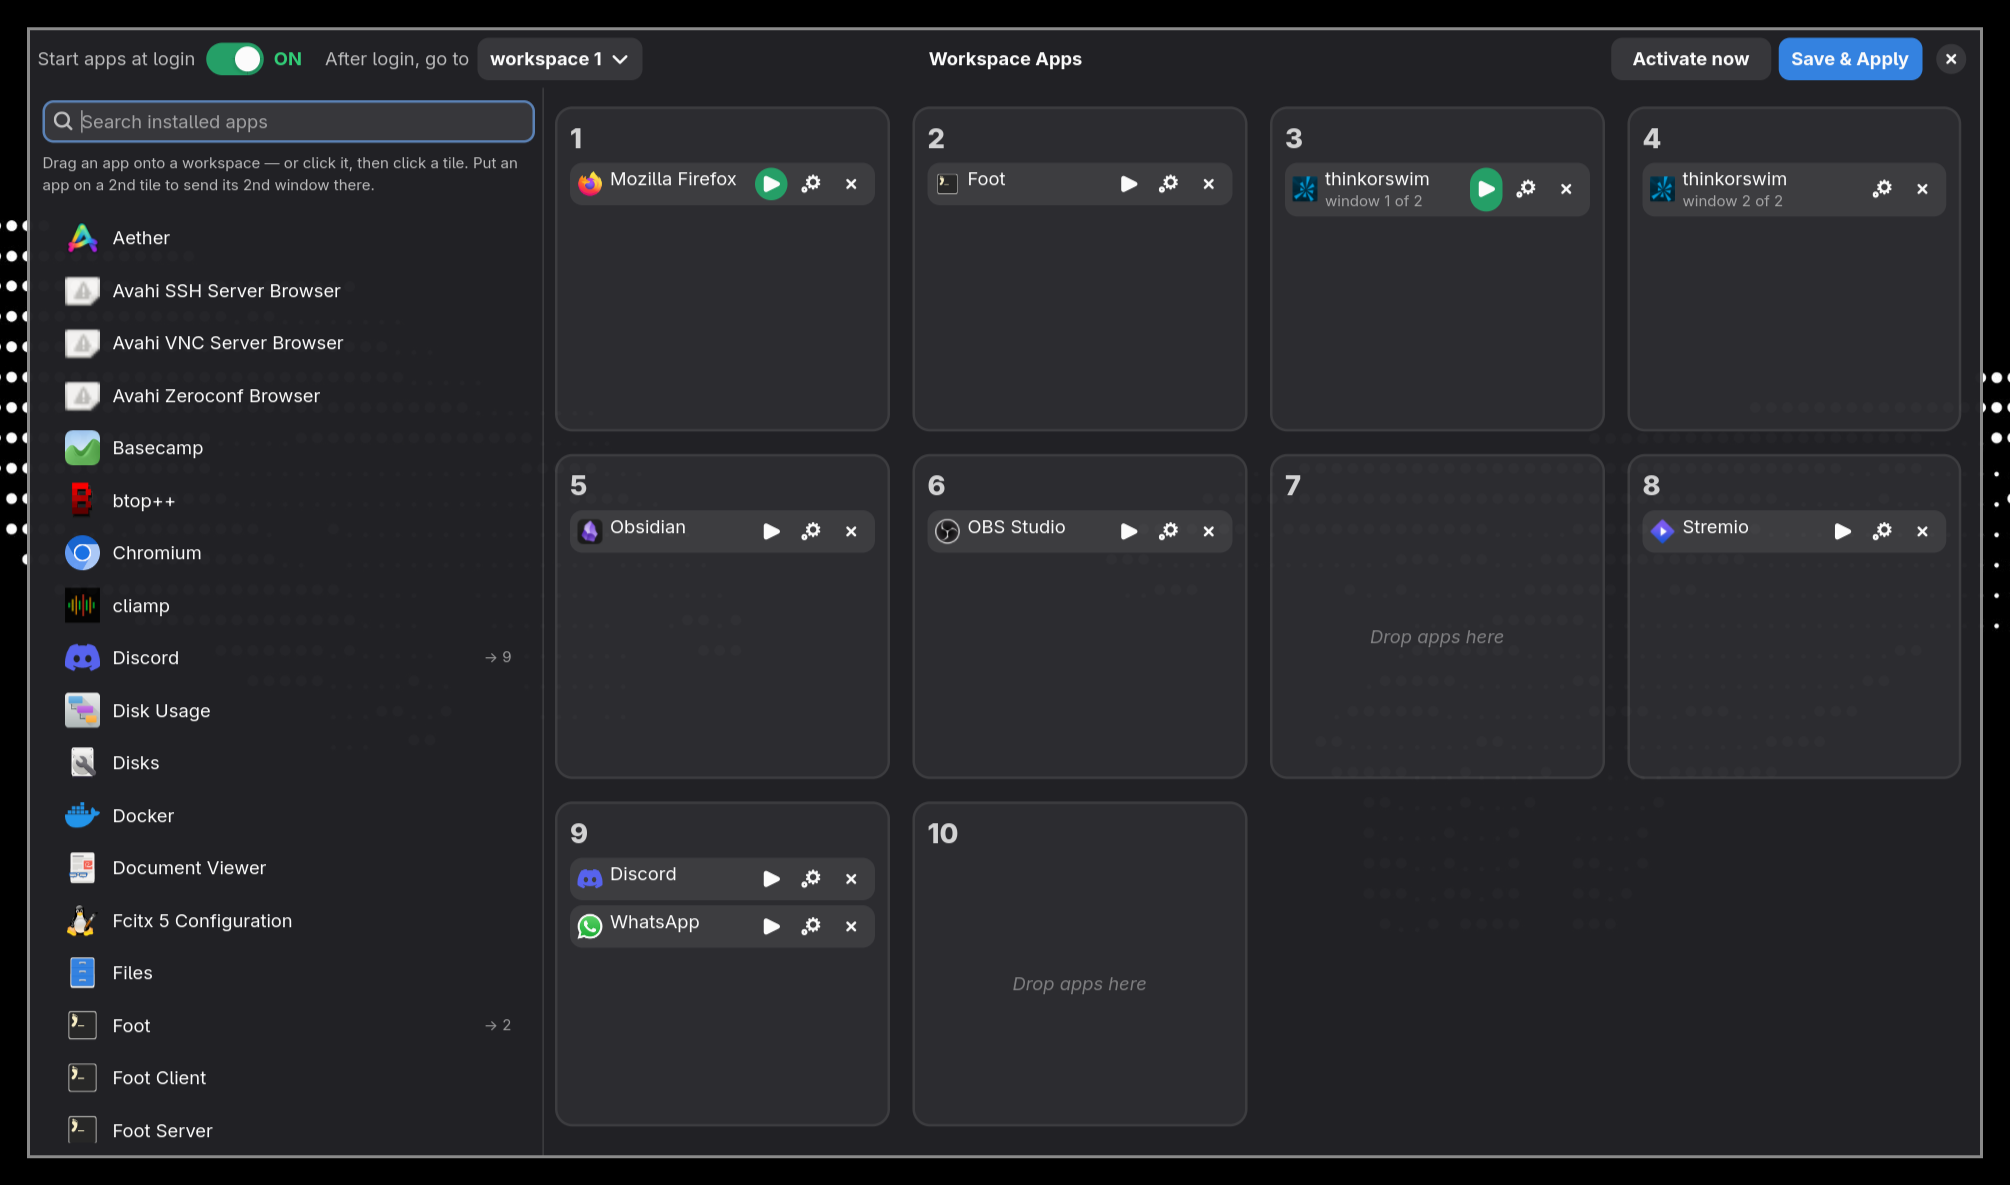
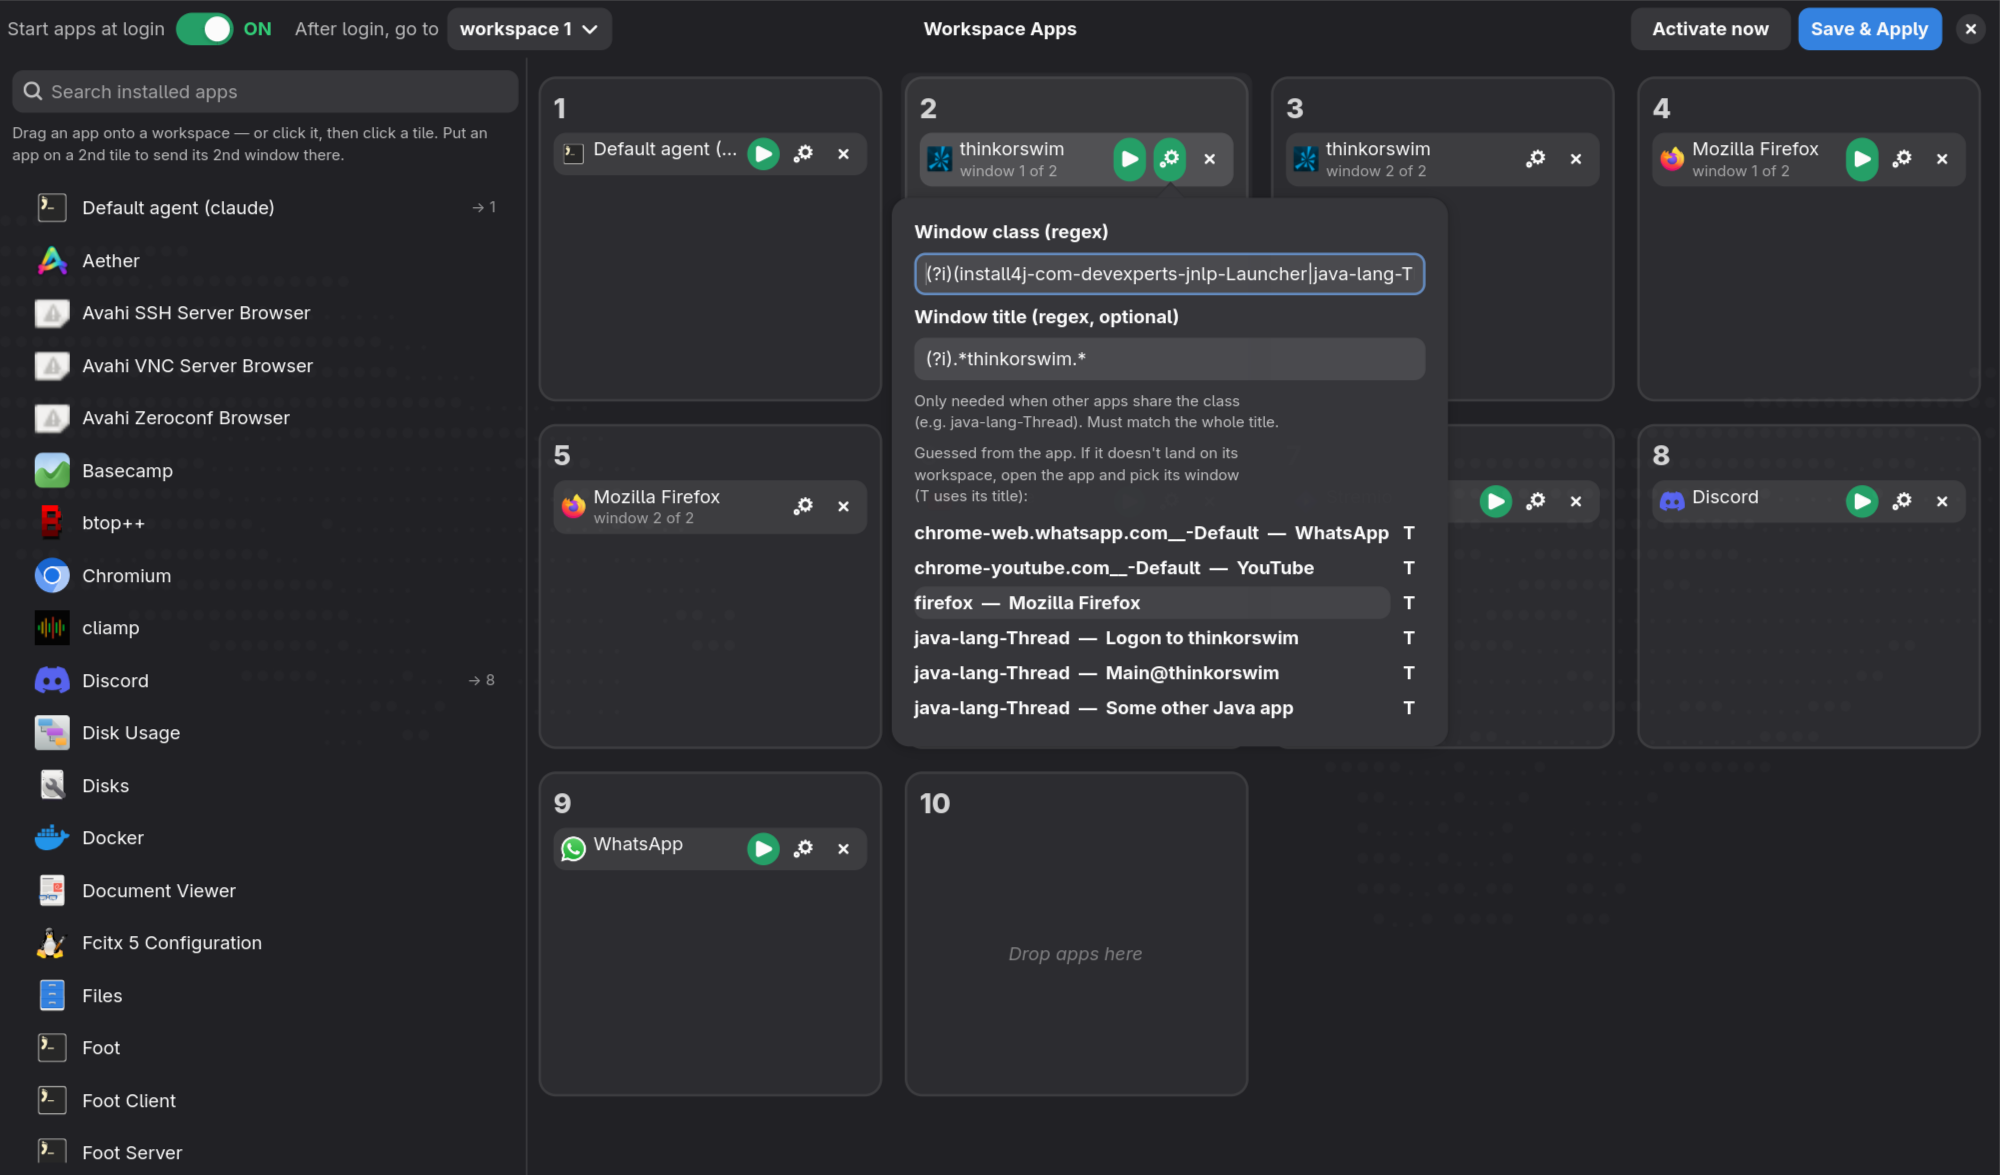
README: update screenshot to show the window-title field

diff --git a/README.md b/README.md
@@ -10,7 +10,7 @@ Works on **[Omarchy](https://omarchy.org)** and any **Hyprland 0.55+** setup wit
 the Lua config (`~/.config/hypr/hyprland.lua`). Built with Python, GTK4 and
 libadwaita.
 
-![Workspace Apps: installed apps on the left, workspace tiles on the right](docs/screenshot.png)
+![Workspace Apps: installed apps on the left, workspace tiles on the right, and the ⚙ window-match popover with class and title fields](docs/screenshot.png)
 
 ## What it does
 
